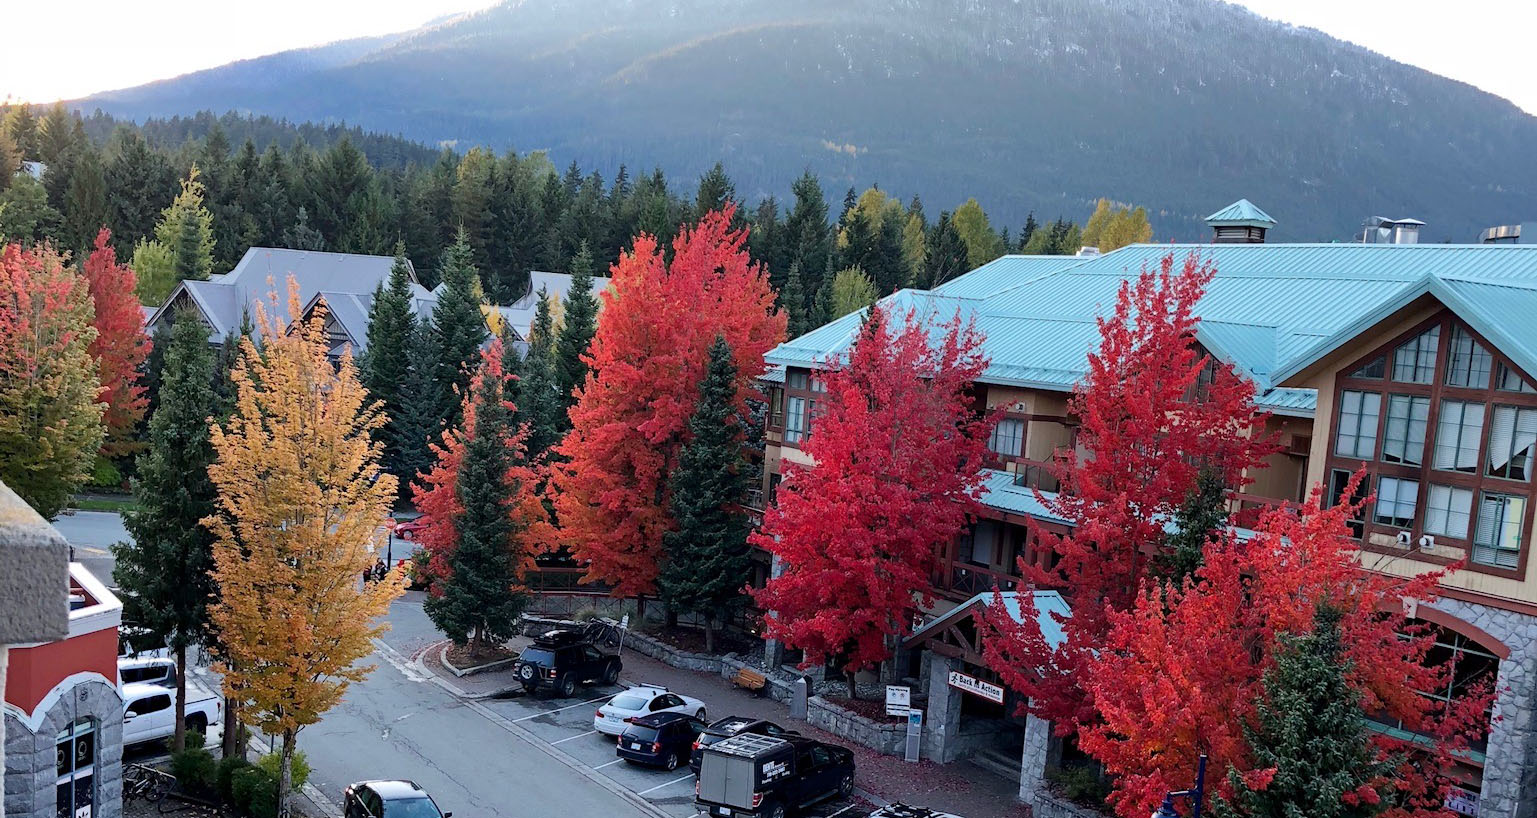
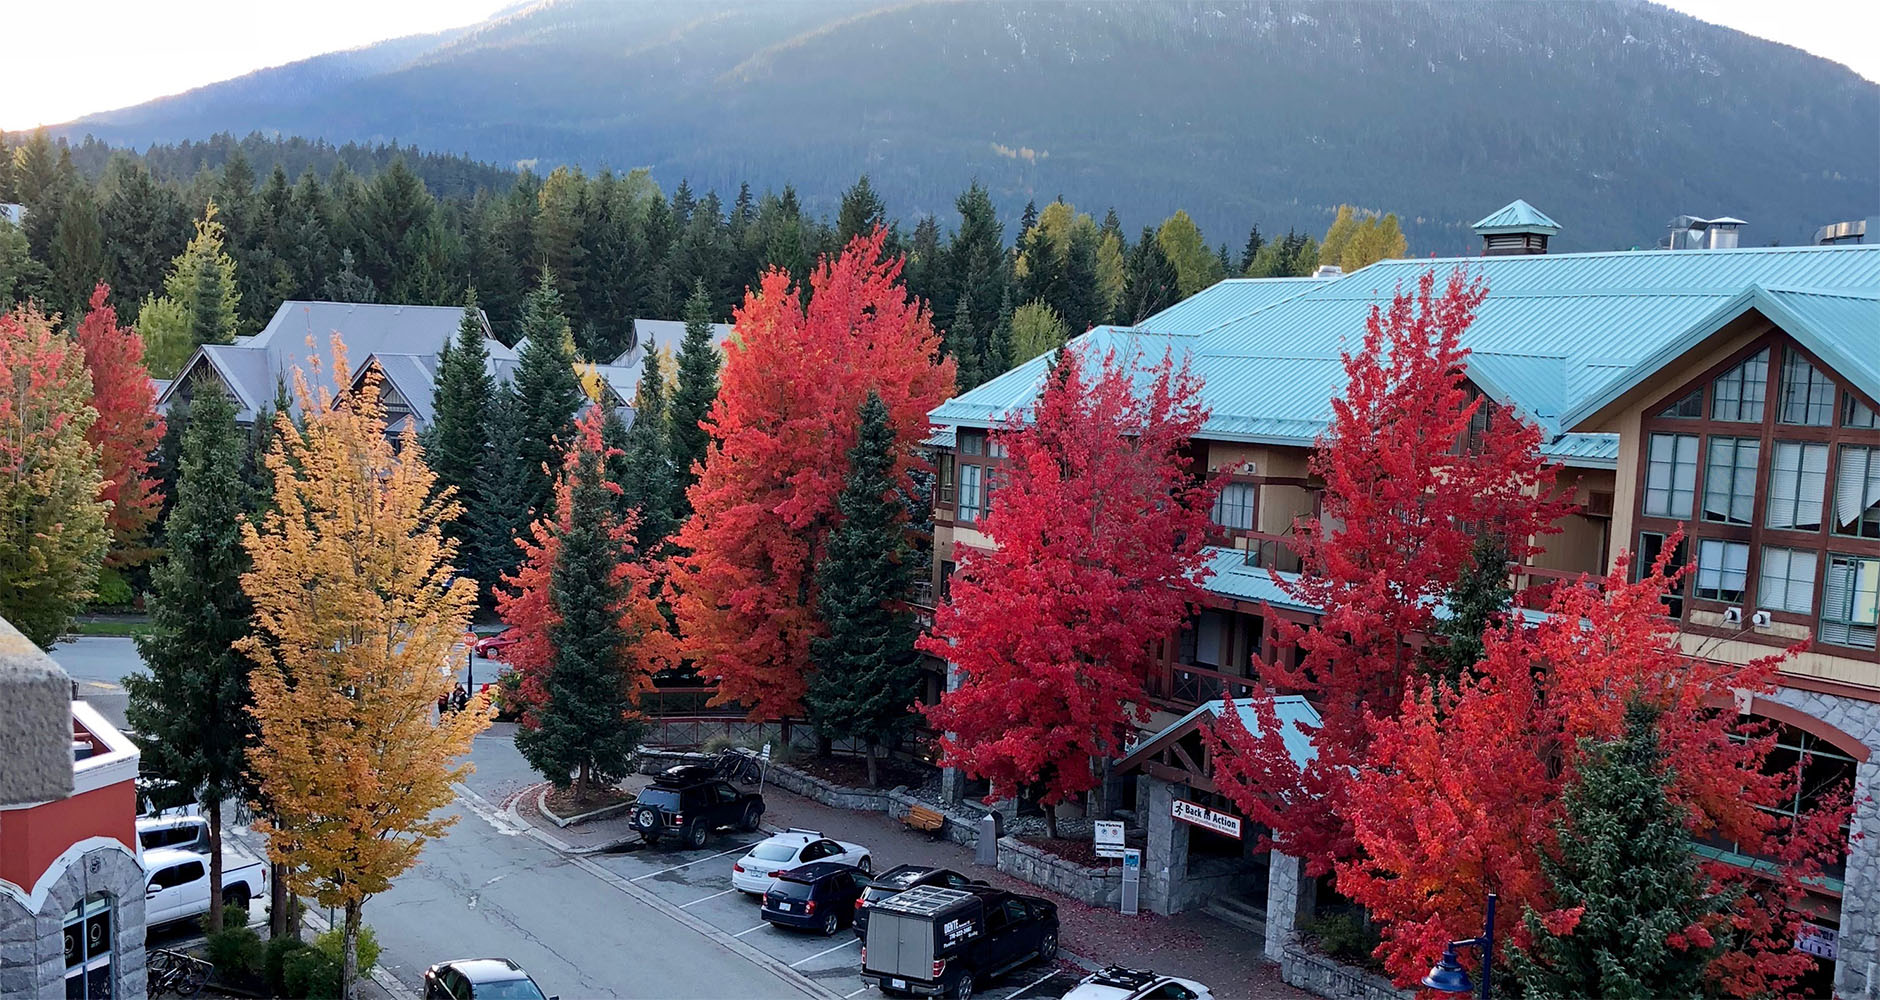
- Whistler post completed

diff --git a/public/whistler.php b/public/whistler.php
@@ -17,47 +17,48 @@
 			<div class="large-12 column">
 				<article class="large-12 column">
 					<h1>Whistler Village, Canada</h1>
-					<p>Hiking, biking, skiing... definitely a must stop destination for all adventure seekers. Whistler is north of Vancouver and is where the 2010 Vancouver Winter Olympics were hosted, it's also home to Whistler Blackcomb which is a very popular ski resort.</p>
+					<p>Hiking, biking, skiing... definitely a must stop destination for all thrill-	seekers. Whistler is located north of Vancouver and is where the 2010 Vancouver Winter Olympics were hosted, it's also home to Whistler Blackcomb which is an incredibly popular ski resort.</p>
+					<p>We travelled to Whistler from Vancouver International Airport on the Whistler Shuttle bus which took around 2.5 hours. Shuttles depart from the airport every hour (it did when we visited) so it's a great, convenient choice if you don't have a car. The views on the drive are just beautiful, you pass through Downtown Vancouver, Stanley Park and then have the ocean, trees and glacier covered mountains beside you. Whistler village is a pedestrianised, quaint, little town and has the most amazing red and autumnal coloured trees in October.</p>
 					<figure>
-						<img src="images/whistler/banff-town-alberta-canada.jpg" alt="The lovely town of Banff">
-						<figcaption>The lovely town of Banff</figcaption>
+						<img src="images/whistler/whistler-village-autumnal-colours.jpg" alt="Autumnal coloured trees in Whistler Village, Canada">
+						<figcaption>Autumnal coloured trees in Whistler Village</figcaption>
 					</figure>
 					
-					<p>We travelled to Whistler from Vancouver International Airport on the Whistler Shuttle which took about 2.5 hours. The Whistler shuttles depart from the airport every hour so it's a great choice if you don't have a car. The views on the drive are just beautiful, you pass through Downtown Vancouver, Stanley Park and then have the ocean, trees and glacier covered mountains beside you. Whistler village is small, quaint and has the most amazing red, fiery trees and autumnal colours. It's pretty small so you can walk across and explore the whole village in 20 minutes.</p>
+					<p>In comparison to Banff, the village was quieter and more compact. There are shops, cafes, restaurants, bars and hotels and you can explore the whole village on foot in about 20 minutes. We had a great stay in a deluxe studio at <a target="_blank" href="https://www.summitlodge.com/">Summit Lodge Boutique Hotel</a> located in Village North, just a few minutes walk to the centre of the village.</p>
 					<figure>
-						<img src="images/whistler/moose-hotel-and-suites-banff-canada.jpg" alt="Moose Hotel and Suites, Banff">
-						<figcaption>The exterior of Moose Hotel and Suites, Banff</figcaption>
+						<img src="images/whistler/summit-lodge-view-from-balcony-whistler.jpg" alt="The view from our balcony showing beautiful autumnal trees at Summit Lodge Boutique Hotel in Whistler, Canada">
+						<figcaption>View from our balcony at Summit Lodge Boutique Hotel</figcaption>
 					</figure>
 					
-					<p>We attempted to do the Rainbow trail but the Rainbow lake was just too far for us to make it to! We did make it to Alta Lake and Rainbow Falls which was really cool but let me warn you, a longggg walk for those who aren't fit, it's about a 3 hour roundtrip.</p>
+					<p>We attempted the Rainbow Lake trail but unfortunately Rainbow lake was just too far out for us. We managed to pass  Alta Lake and made it to the tranquil Rainbow Falls, but this ended up being a 3 hour roundtrip journey! To get to Rainbow falls on foot, part of the journey involves walking along the road which was a bit scary at times! You enter the forest and walk for a short distance to reach Rainbow falls.</p>
 					<figure>
-						<img src="images/whistler/bow-river-trail-banff-canada.jpg" alt="Bow River trail in Banff, Canada">
-						<figcaption>Walking the Bow River trail in Banff</figcaption>
+						<img src="images/whistler/rainbow-falls-whistler.jpg" alt="Hiking to Rainbow Falls in Whistler, Canada">
+						<figcaption>Hiking to Rainbow Falls in Whistler</figcaption>
 					</figure>					
 					
-					<p>If you're after something a bit more challenging and adventurous, the Tunnel Mountain trail is ideal. The elevation gain is 300 m and the roundtrip from Banff town took about 2.5 hours, mostly because it started snowing half way up. Unfortunately the snow meant we couldn't see amazing views when we got to the top, but the experience was incredible and the trees looked like a dream covered in snow.</p>
+					<p>The Lost Lake trail was a nice easy 15 minute walk from Whistler Village, we ended up getting really lost on the way there despite parts of it being well signposted! This is a pretty lake surrounded by dense forest, it's very peaceful and not at all overcrowded.</p>					
 					<figure>
-						<img src="images/whistler/tunnel-mountain-trail-in-snow-banff-canada.jpg" alt="Hiking in Tunnel Mountain in the snow, Banff - Alberta, Canada">
-						<figcaption>Hiking up Tunnel Mountain in the snow, Banff</figcaption>	
-					</figure>						
-					
-					<p>Our trip to Lake Louise was the highlight for me, we booked a <a target="_blank" href="https://www.banfftours.com/">Discover Banff Tour</a> to take us and it was just perfect. It snowed the day before and the snow settled, resulting in a stunning winter wonderland scene. It's  worth nipping into the impressive Fairmont Hotel to defrost and have a nose around this swanky hotel before heading back to the lake. On this tour we also visited the Fairmont Banff Springs Hotel, the Hoodoos, Bow River, Bow Falls, Surprise Corner and made a quick stop by the Vermillion Lakes to take some photos.</p>
-					<figure>
-						<img src="images/whistler/lake-louise-in-banff-canada.jpg" alt="Lake Louise surrounded by snowy trees in Banff - Alberta, Canada">
-						<figcaption>The incredible Lake Louise surrounded by snowy trees in Banff</figcaption>
+						<img src="images/whistler/lost-lake-whistler.jpg" alt="Lost Lake in Whistler, Canada">
+						<figcaption>Lost Lake in Whistler</figcaption>
 					</figure>		
-					<p>We stayed in Banff for 3 nights in October 2017 and I recommend staying for at least 5 nights to see everything. When I return, I'd like to visit the hot springs, take a ride on the Banff gondola and see Moraine Lake, Lake Minnewanka, Peyto Lake and Jasper National Park.</p>			
+					
+					<p>We would have liked to have done much more in Whistler, but unfortunately arrived during off-season so most key activities were closed! There's a period in October where the summer season ends and the winter season hasn't started, so not a great deal to do. Be sure to check the schedules when planning so you're not affected by this down time. On the plus side, as it wasn't a peak time we were able to dine at our chosen restaurants without having to book or queue and it was nice to explore without the area being overrun with tourists!</p>
+					<figure>
+						<img src="images/whistler/lost-lake-whistler-behind-trees.jpg" alt="Lost Lake behind the trees in Whistler, Canada">
+						<figcaption>Lost Lake behind the trees in Whistler</figcaption>	
+					</figure>	
+					
+					<p>We stayed in Whistler Village for 3 nights in October 2017 and I would say 3/5 nights is the perfect amount of time. When I return, I'd like to do the activities that were closed such as ride the Peak 2 Peak Gondola to the top of Blackcomb Mountain and go on a glacier tour.</p>			
 					<hr>
 					
 					<h2>My Top Tips</h2>
 					<ul>
-						<li>Wrap up warm - thermals, layers, waterproofs and comfortable shoes are a must, the temperature dropped to -10°C/14°F one night</li>
-						<li>Hiking necessities - don't be like me, pack bottles of water and energy bars... also don't bring a handbag it's a pain to carry!</li>
-						<li>No car, no problem - we got around fine without one. There are <a target="_blank" href="https://www.banfftours.com/">tours</a> you can do and <a target="_blank" href="http://roamtransit.com/schedules-routes/banff-local-route-one/">Roam buses</a> that can take you to places for $2 </li>
-						<li>So many lakes... so little time - Lake Louise is an absolute must! Make it a priority to visit this beauty otherwise you'll miss out</li>
+						<li>Check the schedule - October wasn't the best time to visit Whistler, you want to make sure it's not off-season and there is plenty to do</li>
+						<li>On your bike - there's a lot of bike rental places located	 in the village and at some hotels, ideal for some of the longer trails</li>
+						<li>To book or not to book  - if you're visiting during peak times I would advise you to book your restaurants in advance if possible</li>
 					</ul>
 					<hr>
-					<a class="button small" href="whistler">Read About Whistler</a>
+					<a class="button small" href="vancouver">Read About Vancouver</a>
 				</article>
 			</div>
 		</main>
